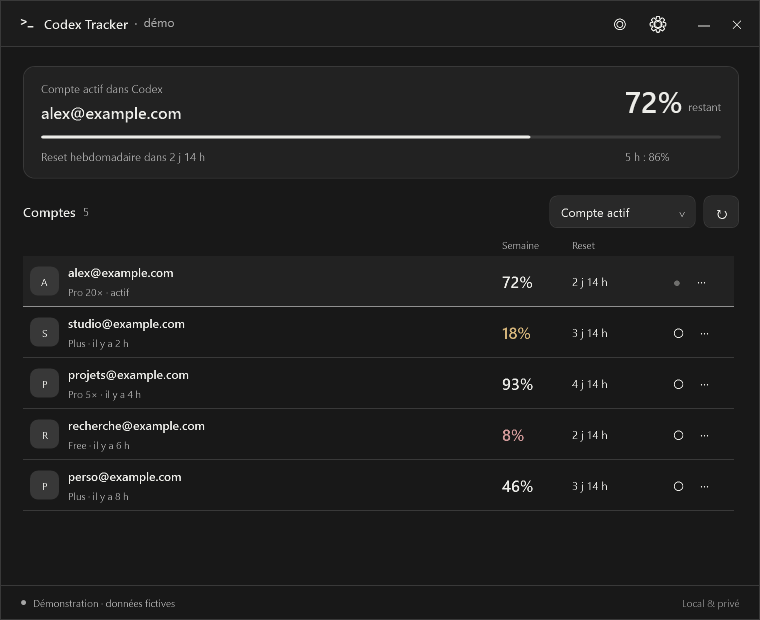
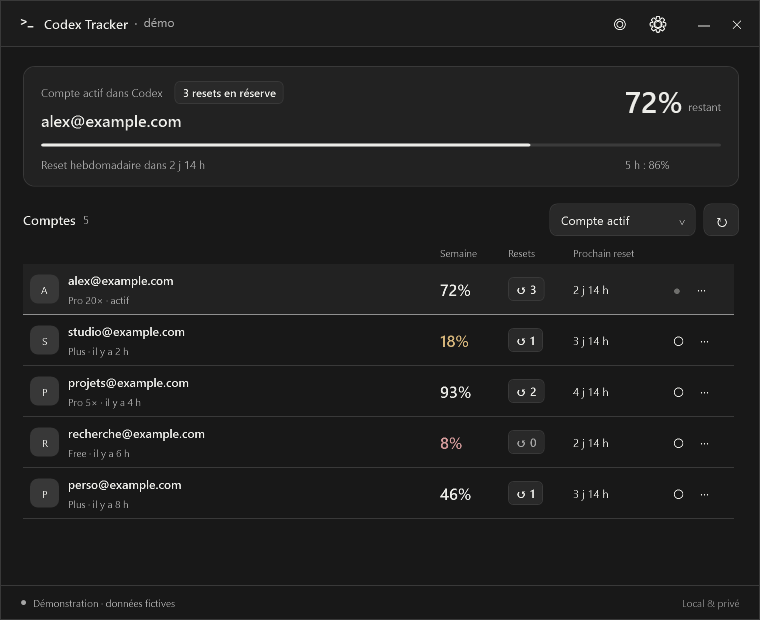
Make reset reserves and expiration dates visible at a glance

diff --git a/src/CodexTracker.App/MainWindow.xaml b/src/CodexTracker.App/MainWindow.xaml
@@ -1,4 +1,8 @@
 <Window x:Class="CodexTracker.App.MainWindow" xmlns="http://schemas.microsoft.com/winfx/2006/xaml/presentation" xmlns:x="http://schemas.microsoft.com/winfx/2006/xaml" xmlns:shell="clr-namespace:System.Windows.Shell;assembly=PresentationFramework" Title="Codex Tracker" Icon="Assets/App.ico" Width="760" Height="620" MinWidth="630" MinHeight="500" WindowStartupLocation="CenterScreen" WindowStyle="None" ResizeMode="CanResize" UseLayoutRounding="True" Background="{DynamicResource BackgroundBrush}" Foreground="{DynamicResource TextBrush}" FontFamily="Segoe UI">
+ <Window.Resources>
+  <DataTemplate x:Key="ReserveTooltip"><TextBlock Text="{Binding}" TextWrapping="Wrap" MaxWidth="390"/></DataTemplate>
+  <Style x:Key="ReserveBadge" TargetType="Border"><Setter Property="Background" Value="{DynamicResource ButtonBrush}"/><Setter Property="BorderBrush" Value="{DynamicResource LineBrush}"/><Setter Property="BorderThickness" Value="1"/><Setter Property="CornerRadius" Value="5"/><Setter Property="Padding" Value="7,3"/><Setter Property="ToolTipService.InitialShowDelay" Value="150"/><Setter Property="ToolTipService.ShowDuration" Value="60000"/></Style>
+ </Window.Resources>
  <shell:WindowChrome.WindowChrome><shell:WindowChrome CaptionHeight="45" ResizeBorderThickness="6" CornerRadius="10" GlassFrameThickness="0"/></shell:WindowChrome.WindowChrome>
  <Border BorderBrush="{DynamicResource LineBrush}" BorderThickness="1"><Grid>
   <Grid.RowDefinitions><RowDefinition Height="46"/><RowDefinition Height="*"/><RowDefinition Height="34"/></Grid.RowDefinitions>
@@ -9,7 +13,7 @@
   <Grid Grid.Row="1" Margin="22,19,20,12"><Grid.RowDefinitions><RowDefinition Height="Auto"/><RowDefinition Height="Auto"/><RowDefinition Height="Auto"/><RowDefinition Height="Auto"/><RowDefinition Height="*"/></Grid.RowDefinitions>
    <Border Background="{DynamicResource PanelBrush}" BorderBrush="{DynamicResource LineBrush}" BorderThickness="1" CornerRadius="9" Padding="13,10" Margin="0,0,0,13" Visibility="{Binding ShowOnboarding, Converter={StaticResource BoolVisibility}}"><Grid><Grid.ColumnDefinitions><ColumnDefinition Width="*"/><ColumnDefinition Width="Auto"/></Grid.ColumnDefinitions><TextBlock Text="Changez de compte dans Codex : le tracker suit automatiquement. Glissez son icône près de l’horloge pour la garder visible." TextWrapping="Wrap" Foreground="{DynamicResource MutedBrush}" FontSize="11" Margin="0,0,14,0"/><Button Grid.Column="1" Content="Compris" Click="Onboarding_Click" Padding="9,5" VerticalAlignment="Center"/></Grid></Border>
    <Border Grid.Row="1" Background="{DynamicResource PanelBrush}" BorderBrush="{DynamicResource LineBrush}" BorderThickness="1" CornerRadius="11" Padding="17,14" Visibility="{Binding HasActive, Converter={StaticResource BoolVisibility}}"><Grid><Grid.RowDefinitions><RowDefinition Height="Auto"/><RowDefinition Height="Auto"/><RowDefinition Height="Auto"/></Grid.RowDefinitions><Grid.ColumnDefinitions><ColumnDefinition Width="*"/><ColumnDefinition Width="Auto"/></Grid.ColumnDefinitions>
-    <StackPanel><TextBlock Text="{Binding Active.SummaryLabel}" Foreground="{DynamicResource MutedBrush}" FontSize="11"/><TextBlock Text="{Binding Active.Email}" FontSize="16" FontWeight="SemiBold" TextTrimming="CharacterEllipsis" Margin="0,5,15,0" ToolTip="{Binding Active.Email}"/></StackPanel>
+        <StackPanel><WrapPanel VerticalAlignment="Center"><TextBlock Text="{Binding Active.SummaryLabel}" Foreground="{DynamicResource MutedBrush}" FontSize="11" VerticalAlignment="Center" Margin="0,0,12,0"/><Border Style="{StaticResource ReserveBadge}" Margin="0,0,8,0"><Border.ToolTip><ToolTip Content="{Binding Active.ReserveHint}" ContentTemplate="{StaticResource ReserveTooltip}"/></Border.ToolTip><TextBlock Text="{Binding Active.ReserveSummary}" Foreground="{Binding Active.ReserveBrush}" FontSize="11" FontWeight="SemiBold"/></Border></WrapPanel><TextBlock Text="{Binding Active.Email}" FontSize="16" FontWeight="SemiBold" TextTrimming="CharacterEllipsis" Margin="0,5,15,0" ToolTip="{Binding Active.Email}"/></StackPanel>
     <StackPanel Grid.Column="1" HorizontalAlignment="Right"><StackPanel Orientation="Horizontal"><TextBlock Text="{Binding Active.WeeklyNumber}" FontFamily="Segoe UI" TextOptions.TextFormattingMode="Ideal" FontSize="30" FontWeight="SemiBold" Foreground="{Binding Active.WeeklyBrush}"/><TextBlock Text=" restant" Foreground="{DynamicResource MutedBrush}" FontSize="11" VerticalAlignment="Bottom" Margin="2,0,0,7"/></StackPanel></StackPanel>
     <ProgressBar Grid.Row="1" Grid.ColumnSpan="2" Value="{Binding Active.WeeklyPercent, Mode=OneWay}" Foreground="{Binding Active.WeeklyBrush}" Margin="0,12,0,10"/>
     <TextBlock Grid.Row="2" Text="{Binding Active.SummaryReset}" ToolTip="{Binding Active.ResetHint}" Foreground="{DynamicResource MutedBrush}" FontSize="11" TextTrimming="CharacterEllipsis" Margin="0,0,12,0"/><TextBlock Grid.Row="2" Grid.Column="1" Text="{Binding Active.ShortSummary}" Foreground="{DynamicResource MutedBrush}" FontSize="11"/>
@@ -22,13 +26,14 @@
    <Grid Grid.Row="3" Margin="0,17,0,9"><Grid.ColumnDefinitions><ColumnDefinition Width="*"/><ColumnDefinition Width="Auto"/><ColumnDefinition Width="Auto"/></Grid.ColumnDefinitions><StackPanel Orientation="Horizontal" VerticalAlignment="Center"><TextBlock Text="Comptes" FontSize="13" FontWeight="SemiBold"/><TextBlock Text="{Binding AccountCount}" Foreground="{DynamicResource MutedBrush}" FontSize="11" Margin="7,1,0,0"/></StackPanel><ComboBox x:Name="SortSelector" Grid.Column="1" Width="146" ItemsSource="{Binding SortChoices}" DisplayMemberPath="Label" SelectedValuePath="Value" SelectionChanged="Sort_Changed" ToolTip="Trier les comptes"/><Button Grid.Column="2" Content="↻" FontSize="16" Padding="10,4" Margin="8,0,0,0" Click="Refresh_Click" IsEnabled="{Binding IsIdle}" ToolTip="Actualiser et détecter le compte Codex" AutomationProperties.Name="Actualiser les quotas"/></Grid>
    <ScrollViewer Grid.Row="4" VerticalScrollBarVisibility="Auto" HorizontalScrollBarVisibility="Disabled"><StackPanel>
     <Border Padding="24,35" Visibility="{Binding IsEmpty, Converter={StaticResource BoolVisibility}}"><StackPanel><TextBlock Text="Ouvrez Codex pour commencer." FontSize="17" FontWeight="SemiBold" TextAlignment="Center"/><TextBlock Text="Le compte connecté apparaîtra ici automatiquement." Foreground="{DynamicResource MutedBrush}" FontSize="12" TextAlignment="Center" Margin="0,10,0,16"/><Button Content="Détecter maintenant" Click="Import_Click" HorizontalAlignment="Center"/></StackPanel></Border>
-    <Grid Margin="7,0,12,5"><Grid.ColumnDefinitions><ColumnDefinition Width="38"/><ColumnDefinition Width="*"/><ColumnDefinition Width="70"/><ColumnDefinition Width="93"/><ColumnDefinition Width="62"/></Grid.ColumnDefinitions><TextBlock Grid.Column="2" Text="Semaine" Foreground="{DynamicResource MutedBrush}" FontSize="10"/><TextBlock Grid.Column="3" Text="Reset" Foreground="{DynamicResource MutedBrush}" FontSize="10"/></Grid><ItemsControl ItemsSource="{Binding Accounts}"><ItemsControl.ItemTemplate><DataTemplate>
-     <Border Background="{Binding RowBackground}" BorderBrush="{Binding CardBorder}" BorderThickness="0,0,0,1" Padding="7,8" Margin="0,0,5,0"><Grid><Grid.ColumnDefinitions><ColumnDefinition Width="38"/><ColumnDefinition Width="*"/><ColumnDefinition Width="70"/><ColumnDefinition Width="93"/><ColumnDefinition Width="62"/></Grid.ColumnDefinitions>
+    <Grid Margin="7,0,12,5"><Grid.ColumnDefinitions><ColumnDefinition Width="38"/><ColumnDefinition Width="*"/><ColumnDefinition Width="68"/><ColumnDefinition Width="65"/><ColumnDefinition Width="92"/><ColumnDefinition Width="62"/></Grid.ColumnDefinitions><TextBlock Grid.Column="2" Text="Semaine" Foreground="{DynamicResource MutedBrush}" FontSize="10"/><TextBlock Grid.Column="3" Text="Resets" ToolTip="Resets disponibles en réserve : survolez le nombre pour voir les dates" Foreground="{DynamicResource MutedBrush}" FontSize="10"/><TextBlock Grid.Column="4" Text="Prochain reset" Foreground="{DynamicResource MutedBrush}" FontSize="10"/></Grid><ItemsControl ItemsSource="{Binding Accounts}"><ItemsControl.ItemTemplate><DataTemplate>
+     <Border Background="{Binding RowBackground}" BorderBrush="{Binding CardBorder}" BorderThickness="0,0,0,1" Padding="7,8" Margin="0,0,5,0"><Grid><Grid.ColumnDefinitions><ColumnDefinition Width="38"/><ColumnDefinition Width="*"/><ColumnDefinition Width="68"/><ColumnDefinition Width="65"/><ColumnDefinition Width="92"/><ColumnDefinition Width="62"/></Grid.ColumnDefinitions>
       <Border Width="29" Height="29" Background="{DynamicResource AvatarBrush}" CornerRadius="8" VerticalAlignment="Center" HorizontalAlignment="Left"><TextBlock Text="{Binding Initials}" FontSize="10" HorizontalAlignment="Center" VerticalAlignment="Center"/></Border>
       <StackPanel Grid.Column="1" VerticalAlignment="Center" Margin="0,0,12,0"><TextBlock Text="{Binding Email}" FontSize="12" FontWeight="SemiBold" TextTrimming="CharacterEllipsis" ToolTip="{Binding Email}"/><TextBlock Text="{Binding RowSubtitle}" FontSize="10" Foreground="{DynamicResource MutedBrush}" Margin="0,4,0,0" TextTrimming="CharacterEllipsis" ToolTip="{Binding Freshness}"/></StackPanel>
       <StackPanel Grid.Column="2" VerticalAlignment="Center"><TextBlock Text="{Binding WeeklyNumber}" Foreground="{Binding WeeklyBrush}" FontSize="16" FontWeight="SemiBold"/></StackPanel>
-      <StackPanel Grid.Column="3" VerticalAlignment="Center" ToolTip="{Binding ResetHint}"><TextBlock Text="{Binding ResetCompact}" FontSize="11"/></StackPanel>
-      <StackPanel Grid.Column="4" Orientation="Horizontal" VerticalAlignment="Center"><Button Content="{Binding SelectGlyph}" Tag="{Binding Id}" Click="Select_Click" IsEnabled="{Binding CanSelect}" ToolTip="{Binding SelectButtonText}" Style="{StaticResource QuietButton}" Padding="7,6" FontSize="13"/><Button Content="···" Tag="{Binding Id}" Click="Details_Click" ToolTip="Détails et historique" AutomationProperties.Name="Détails et historique du compte" Style="{StaticResource QuietButton}" Padding="7,6" FontSize="14"/></StackPanel>
+            <Border Grid.Column="3" Style="{StaticResource ReserveBadge}" HorizontalAlignment="Left" VerticalAlignment="Center" AutomationProperties.Name="{Binding ReserveSummary}"><Border.ToolTip><ToolTip Content="{Binding ReserveHint}" ContentTemplate="{StaticResource ReserveTooltip}"/></Border.ToolTip><TextBlock Text="{Binding ReserveBadge}" Foreground="{Binding ReserveBrush}" FontSize="12" FontWeight="SemiBold"/></Border>
+      <StackPanel Grid.Column="4" VerticalAlignment="Center" ToolTip="{Binding ResetHint}"><TextBlock Text="{Binding ResetCompact}" FontSize="11"/></StackPanel>
+      <StackPanel Grid.Column="5" Orientation="Horizontal" VerticalAlignment="Center"><Button Content="{Binding SelectGlyph}" Tag="{Binding Id}" Click="Select_Click" IsEnabled="{Binding CanSelect}" ToolTip="{Binding SelectButtonText}" Style="{StaticResource QuietButton}" Padding="7,6" FontSize="13"/><Button Content="···" Tag="{Binding Id}" Click="Details_Click" ToolTip="Détails et historique" AutomationProperties.Name="Détails et historique du compte" Style="{StaticResource QuietButton}" Padding="7,6" FontSize="14"/></StackPanel>
      </Grid></Border>
     </DataTemplate></ItemsControl.ItemTemplate></ItemsControl>
    </StackPanel></ScrollViewer>

diff --git a/src/CodexTracker.App/ViewModels.cs b/src/CodexTracker.App/ViewModels.cs
@@ -38,6 +38,17 @@ internal static class Display
         return age.TotalMinutes < 1 ? "à l’instant" : age.TotalHours < 1 ? $"il y a {(int)age.TotalMinutes} min" : age.TotalDays < 1 ? $"il y a {(int)age.TotalHours} h" : $"il y a {(int)age.TotalDays} j";
     }
     public static string SafeText(string? text, bool privacy) => privacy ? Regex.Replace(text ?? "", @"[\p{L}\p{N}._%+\-]+@[\p{L}\p{N}.\-]+", "[compte masqué]", RegexOptions.CultureInvariant, TimeSpan.FromMilliseconds(100)) : text ?? "";
+    public static string ReserveSummary(AccountSnapshot? snapshot) => snapshot?.AvailableResetCredits is int count
+        ? $"{count} reset{(count == 1 ? "" : "s")} en réserve" : "Réserve indisponible";
+    public static string CreditDetails(AccountSnapshot? snapshot, bool privacy) => snapshot?.ResetCredits is { Count: > 0 } credits
+        ? string.Join("\n\n", credits.OrderBy(c => c.ExpiresAt ?? DateTimeOffset.MaxValue).Select((c, i) =>
+            $"{SafeText(c.Title ?? $"Reset {i + 1}", privacy)}\n" +
+            (c.GrantedAt is { } granted ? $"Reçu le {Exact(granted)} · {Zone(granted)}\n" : "") +
+            (c.ExpiresAt is { } expires ? $"{(expires <= DateTimeOffset.UtcNow ? "Expiration passée" : "Expire le")} {Exact(expires)}\n{Zone(expires)}" : "Expiration non communiquée")))
+        : "Aucune expiration communiquée par Codex.";
+    public static string ReserveHint(AccountSnapshot? snapshot, bool privacy) =>
+        $"{ReserveSummary(snapshot)}\n\n{CreditDetails(snapshot, privacy)}" +
+        (snapshot is null ? "" : $"\n\nDernier relevé : {Exact(snapshot.FetchedAt)}\n{Zone(snapshot.FetchedAt)}\nDisponibilité au moment de ce relevé.");
 }
 
 internal sealed record SortChoice(SortMode Value, string Label) { public override string ToString() => Label; }
@@ -79,7 +90,10 @@ internal sealed class AccountViewModel : INotifyPropertyChanged
     public string ResetHint => $"{ResetExact}\n{ResetZone}";
     public string SummaryReset => $"Reset hebdomadaire {ResetCountdown.ToLowerInvariant()}";
     public string ReserveCount => _account.Snapshot?.AvailableResetCredits?.ToString(CultureInfo.InvariantCulture) ?? "—";
-    public string ReserveSummary => _account.Snapshot?.AvailableResetCredits is int count ? $"{count} reset{(count == 1 ? "" : "s")} en réserve" : "Réserve indisponible";
+    public string ReserveSummary => Display.ReserveSummary(_account.Snapshot);
+    public string ReserveBadge => $"↺ {ReserveCount}";
+    public Brush ReserveBrush => ThemeManager.GetBrush(_account.Snapshot?.AvailableResetCredits > 0 ? "TextBrush" : "MutedBrush");
+    public string ReserveHint => Display.ReserveHint(_account.Snapshot, _preferences.Current.PrivacyMode);
     public string SubscriptionSummary
     {
         get
@@ -91,7 +105,7 @@ internal sealed class AccountViewModel : INotifyPropertyChanged
         }
     }
     public string SubscriptionDetails => $"Période d’abonnement active\nDébut : {Display.Exact(_account.Snapshot?.SubscriptionStartedAt)}\n{Display.Zone(_account.Snapshot?.SubscriptionStartedAt)}\nFin : {Display.Exact(_account.Snapshot?.SubscriptionEndsAt)}\n{Display.Zone(_account.Snapshot?.SubscriptionEndsAt)}";
-    public string CreditDetails => _account.Snapshot?.ResetCredits is { Count: > 0 } credits ? string.Join("\n", credits.Select(c => $"{Display.SafeText(c.Title ?? "Crédit", _preferences.Current.PrivacyMode)} · expire le {Display.Exact(c.ExpiresAt)}\n{Display.Zone(c.ExpiresAt)}")) : "Aucune expiration communiquée par Codex.";
+    public string CreditDetails => Display.CreditDetails(_account.Snapshot, _preferences.Current.PrivacyMode);
     public bool HasError => !string.IsNullOrWhiteSpace(_account.Error);
     public string Error => Display.SafeText(_account.Error, _preferences.Current.PrivacyMode);
     public string Freshness

diff --git a/src/CodexTracker.App/TrayPeekWindow.cs b/src/CodexTracker.App/TrayPeekWindow.cs
@@ -16,6 +16,8 @@ internal sealed class TrayPeekWindow : Window
     private readonly ProgressBar _shortBar = new() { Maximum = 100, Height = 3, Margin = new Thickness(0, 8, 0, 0) };
     private readonly TextBlock _reset = new() { FontSize = 12, TextWrapping = TextWrapping.Wrap, Margin = new Thickness(0, 15, 0, 0) };
     private readonly TextBlock _freshness = new() { FontSize = 11, TextWrapping = TextWrapping.Wrap, Margin = new Thickness(0, 4, 0, 0) };
+    private readonly TextBlock _reserve = new() { FontSize = 12, FontWeight = FontWeights.SemiBold, Margin = new Thickness(0, 13, 0, 0) };
+    private readonly TextBlock _expirations = new() { FontSize = 11, TextWrapping = TextWrapping.Wrap, Margin = new Thickness(0, 4, 0, 0) };
     private readonly TextBlock _status = new() { FontSize = 10, Margin = new Thickness(0, 0, 0, 10) };
     private DrawingPoint _anchor;
     private bool _positionQueued, _positioning, _closed;
@@ -47,6 +49,10 @@ internal sealed class TrayPeekWindow : Window
         var weekly = Metric("Semaine", _weekly, _weeklyBar); weekly.Margin = new Thickness(0, 0, 15, 0);
         var shortWindow = Metric("5 heures", _short, _shortBar); shortWindow.Margin = new Thickness(15, 0, 0, 0);
         quotas.Children.Add(weekly); Grid.SetColumn(shortWindow, 1); quotas.Children.Add(shortWindow); content.Children.Add(quotas);
+        content.Children.Add(_reserve); content.Children.Add(_expirations);
+        Muted(_expirations);
+        ToolTipService.SetInitialShowDelay(_reserve, 150);
+        ToolTipService.SetShowDuration(_reserve, 60000);
         content.Children.Add(_reset); content.Children.Add(_freshness);
         var button = new Button { Content = "Ouvrir le suivi", Margin = new Thickness(0, 17, 0, 0), Padding = new Thickness(10, 7, 10, 7), HorizontalAlignment = HorizontalAlignment.Stretch };
         button.Click += (_, _) => { Hide(); open(); }; content.Children.Add(button);
@@ -83,6 +89,12 @@ internal sealed class TrayPeekWindow : Window
         _status.Text = account?.IsActiveInCodex == true ? "COMPTE ACTIF DANS CODEX" : "COMPTE AFFICHÉ DANS L’ICÔNE";
         _reset.Text = weekly?.ResetsAt is null ? "Reset hebdomadaire indisponible" : "Reset · " + Display.Countdown(weekly.ResetsAt);
         _reset.ToolTip = Display.Exact(weekly?.ResetsAt) + " · " + Display.Zone(weekly?.ResetsAt);
+        _reserve.Text = "↺ " + Display.ReserveSummary(snapshot);
+        _reserve.ToolTip = new ToolTip { Content = new TextBlock { Text = Display.ReserveHint(snapshot, preferences.PrivacyMode), TextWrapping = TextWrapping.Wrap, MaxWidth = 390 } };
+        _expirations.Text = snapshot?.ResetCredits is { Count: > 0 } credits
+            ? string.Join("\n", credits.OrderBy(c => c.ExpiresAt ?? DateTimeOffset.MaxValue).Select(c =>
+                c.ExpiresAt is { } expires ? $"{(expires <= DateTimeOffset.UtcNow ? "Expiration passée" : "Expire le")} {Display.Exact(expires)} · {Display.Zone(expires)}" : "Expiration non communiquée"))
+            : "Dates d’expiration non communiquées";
         if (snapshot is null) _freshness.Text = "Ouvrez votre compte dans Codex pour le détecter.";
         else
         {

diff --git a/src/CodexTracker.Codex/AppServerClient.cs b/src/CodexTracker.Codex/AppServerClient.cs
@@ -54,7 +54,7 @@ internal sealed class AppServerClient : IAsyncDisposable
         {
             await client.RequestAsync("initialize", new
             {
-                clientInfo = new { name = "codex_tracker", title = "Codex Tracker", version = "0.4.0" },
+                clientInfo = new { name = "codex_tracker", title = "Codex Tracker", version = "0.4.1" },
                 capabilities = new { experimentalApi = true }
             }, cancellationToken);
             await client.SendAsync(new { method = "initialized", @params = new { } }, cancellationToken);

diff --git a/docs/VALIDATION.md b/docs/VALIDATION.md
@@ -1,6 +1,6 @@
-# Validation de la version 0.4.0
+# Validation de la version 0.4.1
 
-Contrôles effectués sur Windows 11 x64, le 20 septembre 2026. Les tests et captures publics utilisent uniquement des comptes fictifs.
+Contrôles effectués sur Windows 11 x64, les 20 et 21 septembre 2026. Les tests et captures publics utilisent uniquement des comptes fictifs.
 
 | Contrôle | Résultat |
 | --- | --- |
@@ -11,7 +11,7 @@ Contrôles effectués sur Windows 11 x64, le 20 septembre 2026. Les tests et cap
 | Intégrité de la session active | Empreinte SHA-256 du cache inchangée avant/après la collecte |
 | Persistance des credentials | Aucun fichier de session créé dans les données du tracker ; runtime temporaire nettoyé après collecte |
 | Démonstration WPF | Vrais processus, captures clair/sombre et identités masquées, détails et réglages |
-| Interactions WPF en démonstration | 18 contrôles réussis : tri, thèmes à chaud, confidentialité dans les fenêtres ouvertes et le conseil, menus, graphique, minuterie et arrêt |
+| Interactions WPF en démonstration | 21 contrôles réussis : badges de réserve, infobulle ouverte avec dates et fuseau, tri, thèmes à chaud, confidentialité dans les fenêtres ouvertes et le conseil, menus, graphique, minuterie et arrêt |
 | Rendus WPF 96, 144 et 192 DPI | Contrôle des dimensions et lisibilité ; ces rendus ne changent pas les réglages DPI de Windows |
 | Icône anneau claire et sombre | Valeurs 0, 8, 10, 20, 21, 72, 99, 100 et inconnue aux tailles 16, 20, 24 et 32 pixels dans le [rendu de contrôle](tray-ring.png) |
 | Installateur Windows | Installation, mise à niveau et désinstallation réelles dans un dossier isolé ; arrêt gracieux de l’application de test et conservation du témoin de données privées |

diff --git a/README.md b/README.md
@@ -38,7 +38,7 @@ Seul le compte ouvert dans Codex est actualisé, toutes les deux minutes. Les au
 - **Dans l’icône** : nombre et anneau sobres au-dessus de 20 %, orange entre 10 et 20 %, rouge sous 10 %. La valeur reste lisible sans dépendre uniquement de la couleur.
 - **Offre** : badges Free, Plus, Pro et autres offres renvoyées par Codex. Les valeurs `prolite` et `pro` correspondent respectivement à Pro **5×** et Pro **20×**, conformément à l’interface Codex actuelle. Une offre inconnue reste affichée telle quelle.
 - **Période d’abonnement** : début et fin de période active lorsqu’ils sont présents dans les métadonnées de session Codex. Ce ne sont pas nécessairement la date de souscription initiale ni une échéance de paiement. Les dates absentes restent indisponibles.
-- **Resets en réserve** : compteur `availableCount` fourni par Codex, accompagné des expirations disponibles. Le nombre d’éléments détaillés ne remplace jamais le compteur serveur.
+- **Resets en réserve** : badge visible sur le compte actif et dans la colonne **Resets**. Survolez le badge pour lire les dates d’obtention et d’expiration, leur fuseau horaire et la date du relevé. L’aperçu de l’icône présente aussi la réserve et les expirations. Le compteur `availableCount` fourni par Codex, accompagné des expirations disponibles. Le nombre d’éléments détaillés ne remplace jamais le compteur serveur.
 - Les dates précises utilisent le fuseau horaire Windows et son décalage UTC. Le compte à rebours complète l’heure exacte ; il ne confirme pas un reset tant que le serveur n’a pas actualisé la valeur.
 - En cas d’erreur, les dernières valeurs et leur ancienneté sont conservées. Une information absente reste « indisponible », jamais zéro.
 
